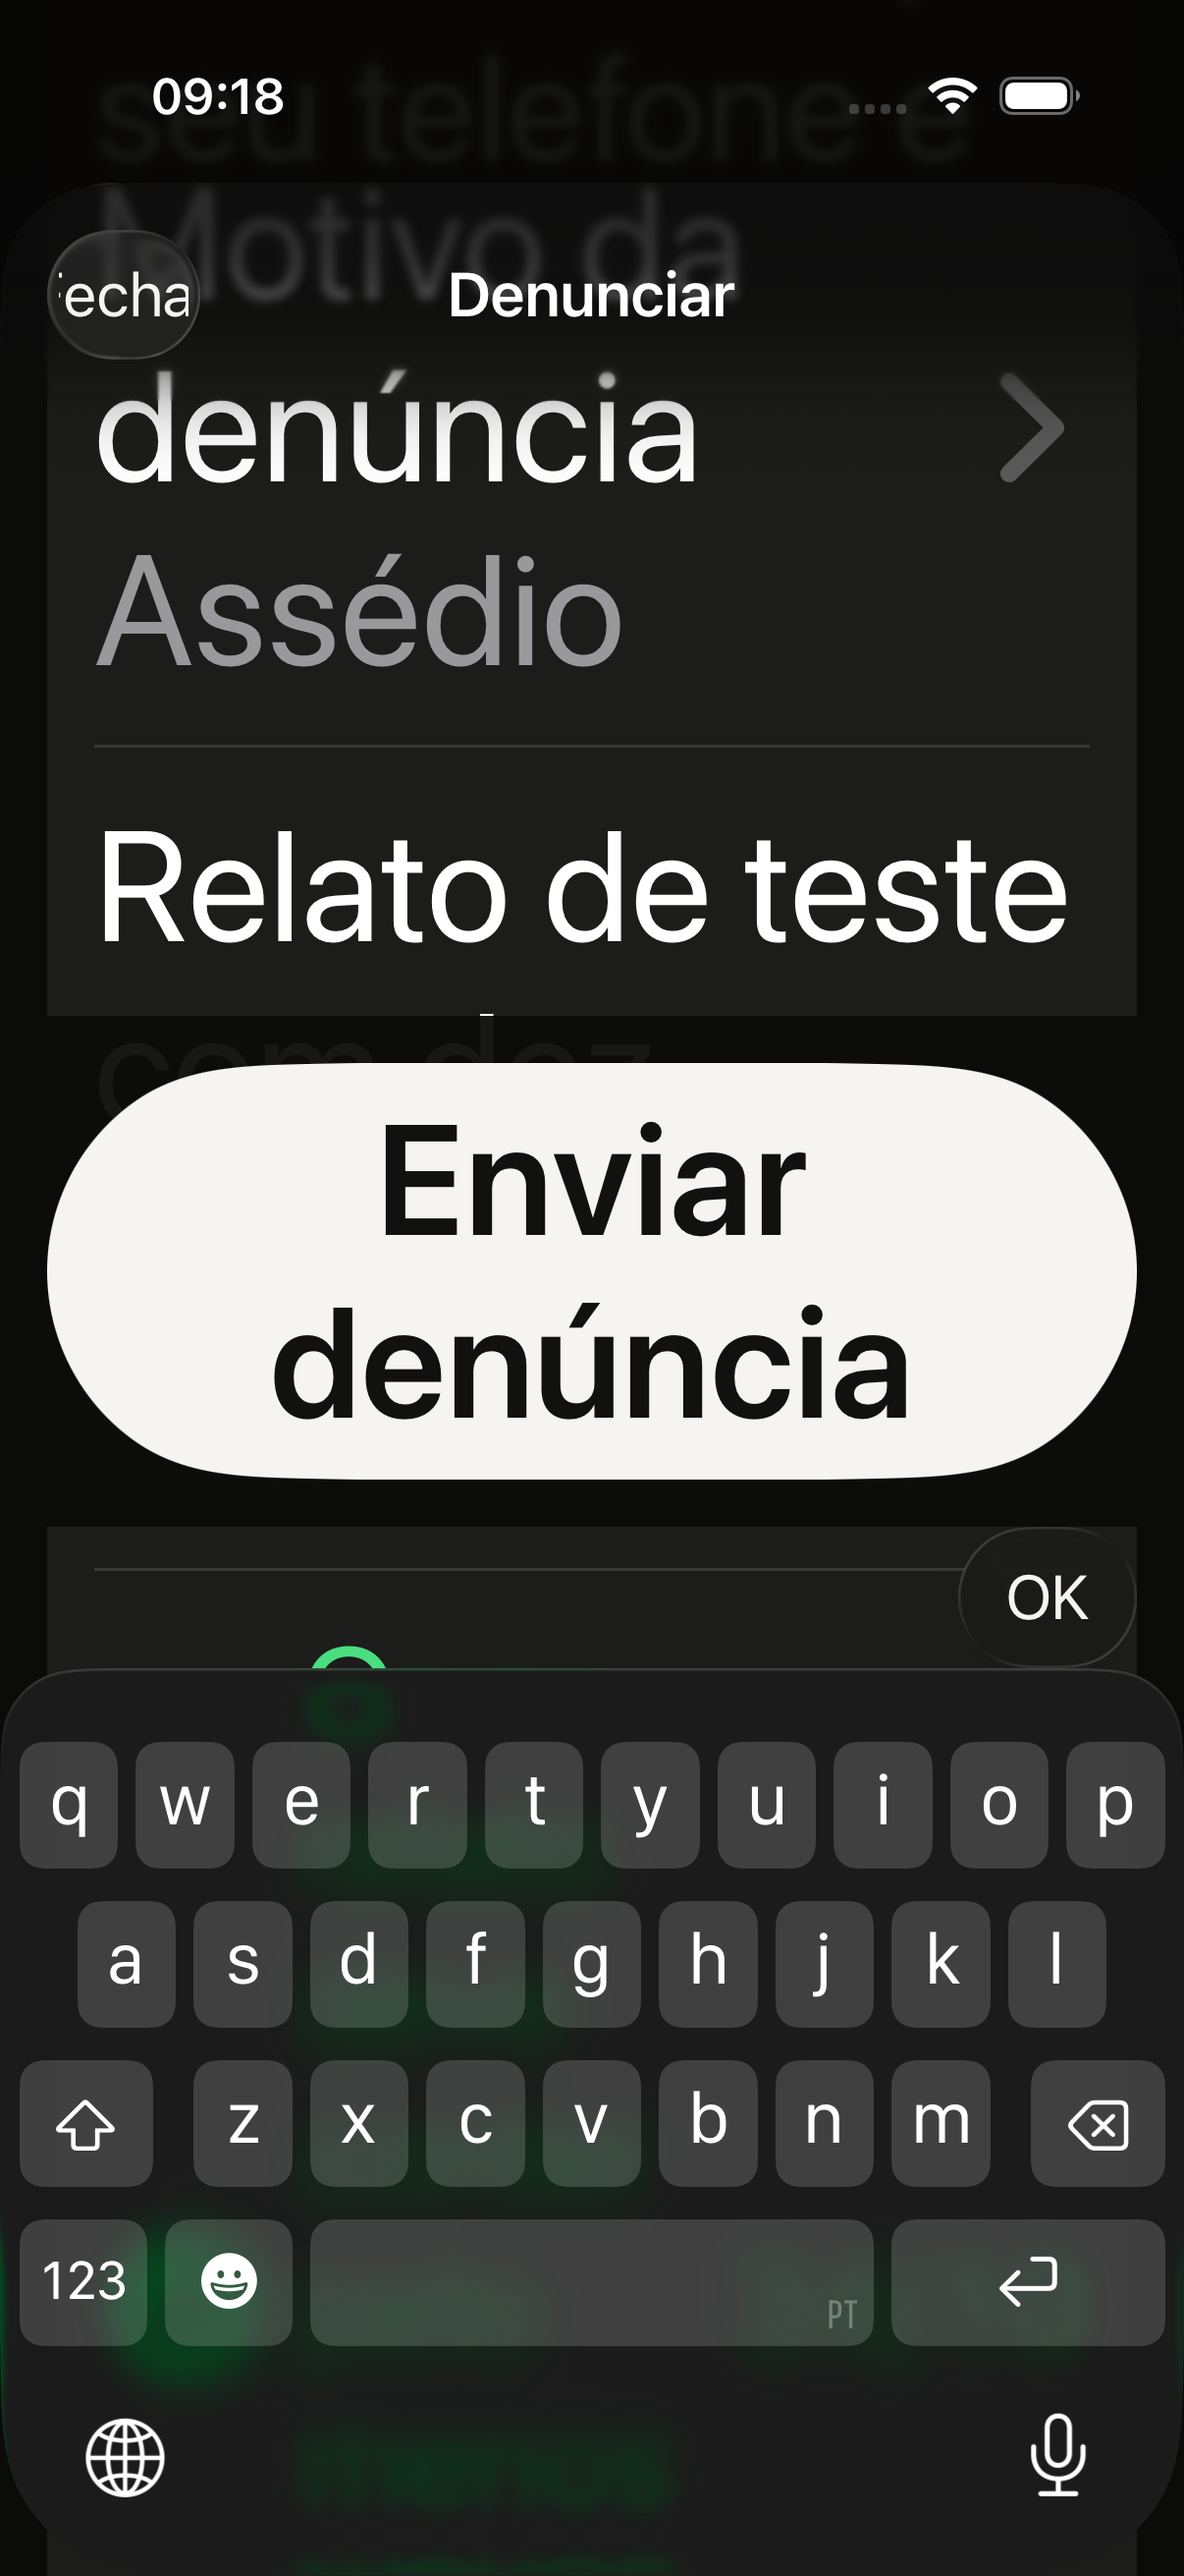
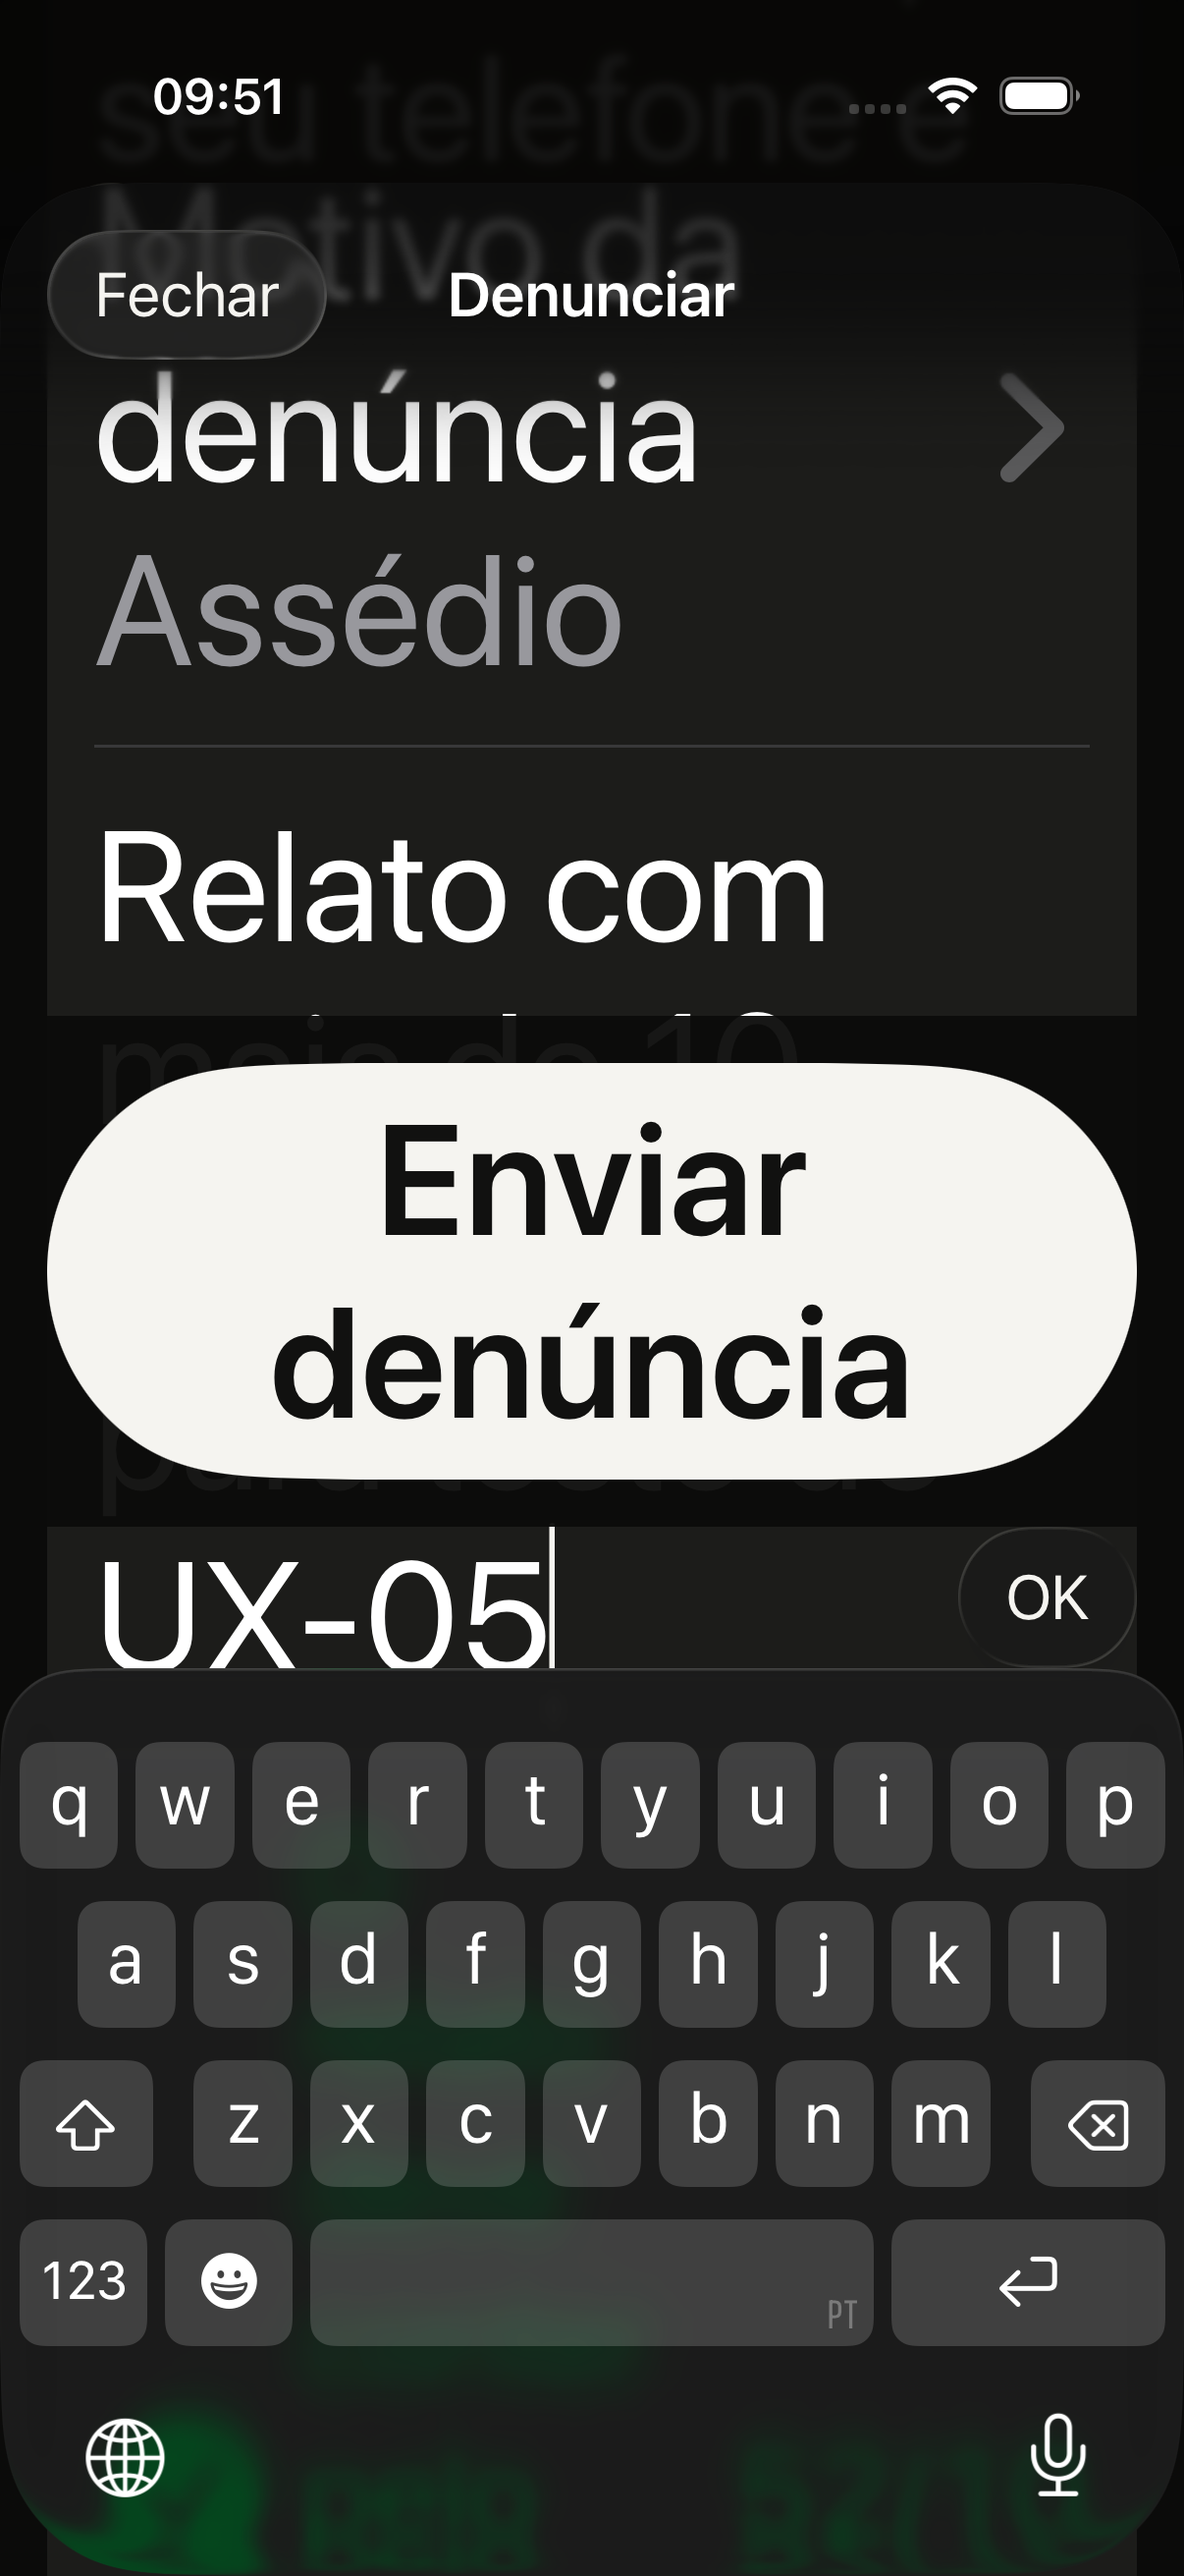
fix(ux-05): fixedSize no botao Fechar e novas capturas com desfecho e contadores visiveis

diff --git a/iOS/Sources/Apresentacao/Fluxos/Confianca/AcoesDeSeguranca.swift b/iOS/Sources/Apresentacao/Fluxos/Confianca/AcoesDeSeguranca.swift
@@ -215,12 +215,19 @@ private struct FolhaDeDenuncia: View {
             .navigationTitle(TextosDaSeguranca.denunciar)
             .toolbar {
                 ToolbarItem(placement: .cancellationAction) {
-                    Button(TextosDaSeguranca.fechar) { dismiss() }
-                        .accessibilityShowsLargeContentViewer {
-                            Text(verbatim: TextosDaSeguranca.fechar)
-                        }
-                        .frame(minWidth: FrilaMetrica.alvoMinimo, minHeight: FrilaMetrica.alvoMinimo)
-                        .disabled(model.enviando)
+                    Button {
+                        dismiss()
+                    } label: {
+                        Text(verbatim: TextosDaSeguranca.fechar)
+                            .fixedSize()
+                            .frame(minWidth: FrilaMetrica.alvoMinimo, minHeight: FrilaMetrica.alvoMinimo)
+                    }
+                    .fixedSize()
+                    .accessibilityShowsLargeContentViewer {
+                        Text(verbatim: TextosDaSeguranca.fechar)
+                    }
+                    .disabled(model.enviando)
+                    .accessibilityIdentifier("fechar-denuncia")
                 }
                 ToolbarItemGroup(placement: .keyboard) {
                     Spacer()

diff --git a/iOS/Sources/Apresentacao/Fluxos/Suporte/FolhaSuporteTurno.swift b/iOS/Sources/Apresentacao/Fluxos/Suporte/FolhaSuporteTurno.swift
@@ -44,13 +44,17 @@ public struct FolhaSuporteTurno: View {
             .navigationBarTitleDisplayMode(.inline)
             .toolbar {
                 ToolbarItem(placement: .cancellationAction) {
-                    Button(TextosDoSuporte.fechar) {
+                    Button {
                         dismiss()
+                    } label: {
+                        Text(verbatim: TextosDoSuporte.fechar)
+                            .fixedSize()
+                            .frame(minWidth: FrilaMetrica.alvoMinimo, minHeight: FrilaMetrica.alvoMinimo)
                     }
+                    .fixedSize()
                     .accessibilityShowsLargeContentViewer {
                         Text(verbatim: TextosDoSuporte.fechar)
                     }
-                    .frame(minWidth: FrilaMetrica.alvoMinimo, minHeight: FrilaMetrica.alvoMinimo)
                     .accessibilityIdentifier("botao-fechar-suporte")
                 }
             }
